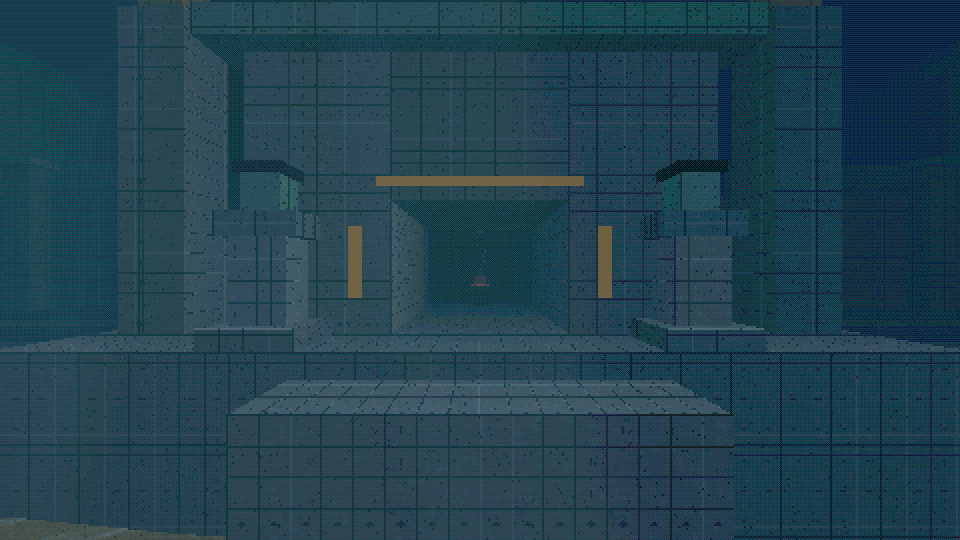
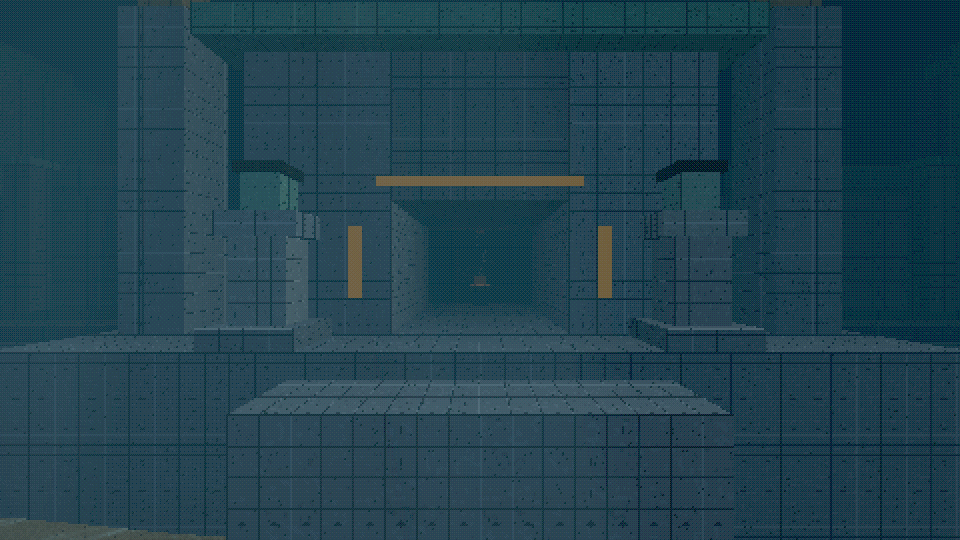
Tempel: Nischenfiguren im Umgang und am Labyrintheingang
- kleine Wächterfiguren in den vier Umgangsecken und beidseits des
  Labyrintheingangs (bauNischen/kleineStatue)
- neuer Prüfstandpunkt tempel_ecke; baseline und nachher (19 Posen)
  deckungsgleich neu aufgenommen
- Art-Bible: Inventar und Standpunkte aktualisiert

diff --git a/src/world/Tiefentempel.ts b/src/world/Tiefentempel.ts
@@ -272,6 +272,7 @@ export class Tiefentempel {
     this.bauDach(bau);
     this.bauSaeulen(bau);
     this.bauReliefs(bau);
+    this.bauNischen(bau);
     this.bauTorhaus(bau);
     this.bauWaechter(bau);
     const feuerschalen = this.bauFeuerschalen(bau);
@@ -423,6 +424,27 @@ export class Tiefentempel {
       b.glow(o.x, 1.25, o.z, 0.8, 0.5, 0.8, 0xffb45a);
     }
     return orte;
+  }
+
+  // Kleine Wächterfiguren in den Ecken des Umgangs und zu beiden Seiten
+  // des Labyrintheingangs. Sie gliedern die langen Wände und markieren
+  // den Übergang ins Labyrinth.
+  private bauNischen(b: Bau): void {
+    const c = INNEN - 1.6;
+    for (const sx of [-1, 1]) {
+      for (const sz of [-1, 1]) this.kleineStatue(b, sx * c, sz * c);
+    }
+    const ex = zellMitte(PLAN.eingang);
+    const ez = LAB_HALB + WAND / 2;
+    for (const s of [-1, 1]) this.kleineStatue(b, ex + s * 2.6, ez + 1.5);
+  }
+
+  private kleineStatue(b: Bau, x: number, z: number): void {
+    b.box(x, 0, z, 1.6, 0.4, 1.6, SOCKEL);
+    b.box(x, 0.4, z, 1.0, 2.0, 0.9, BASALT);
+    b.box(x, 2.4, z, 1.5, 0.5, 1.0, BASALT);
+    b.box(x, 2.9, z, 0.8, 0.8, 0.8, GRUENSPAN);
+    b.boxFarbe(x, 3.7, z, 1.0, 0.2, 1.0, 0x9a7440, 1.6);
   }
 
   // Außenwände mit Tor, Decke, Strebepfeiler, Glimmsteine im Umgang

diff --git a/src/dev/photo.ts b/src/dev/photo.ts
@@ -1,7 +1,7 @@
 import * as THREE from 'three';
 import { CONFIG } from '../config';
 import type { PlayState } from '../states/PlayState';
-import { RING } from '../world/TempelPlan';
+import { INNEN, RING } from '../world/TempelPlan';
 import { loadModel } from '../rendering/Models';
 import { pixelTexture } from '../rendering/Textures';
 
@@ -123,6 +123,7 @@ function bauePosen(play: PlayState): PoseDef[] {
     { name: 'seemonster', eye: [330, -1.0, 0], ziel: [360, -2, 0], frozen: false, warte: 1500 },
     { name: 'tempel', ...teleport(tempel.vorDemTor, -6) },
     { name: 'umgang', ...umgang },
+    { name: 'tempel_ecke', eye: punkt(RING, 1.55, 26), ziel: punkt(INNEN - 1.6, 1.3, INNEN - 1.6) },
     { name: 'labyrinth', ...teleport(tempel.amLabyrinthEingang, 3) },
     { name: 'schatz', ...teleport(tempel.inDerSchatzkammer) },
     { name: 'katalog_modelle', eye: KATALOG_AUGE, ziel: [0, 25, 0], katalog: 'modelle' },

diff --git a/docs/art-bible.md b/docs/art-bible.md
@@ -147,16 +147,15 @@ npm run textures     # Texturen neu erzeugen
 | Vignette | `rendering/PixelRenderer.ts` | ✓ neu |
 | Kreaturen- und Item-Modelle | `public/assets/models/*.glb` | Leos Blockbench-Modelle – unverändert, originale Materialien |
 | Licht/Atmosphäre | `world/World.ts`, `rendering/Palette.ts` | ✓ zentrale Palette + Sonnenrichtung |
-| Tempel + Pagoden | `world/Tiefentempel.ts`, `Pagoden.ts` | ✓ `temple.png`, Säulen, Reliefs, Wächterstatuen, Feuerschalen mit Licht |
+| Tempel + Pagoden | `world/Tiefentempel.ts`, `Pagoden.ts` | ✓ `temple.png`, Säulen, Reliefs, Wächterstatuen am Tor, Nischenfiguren, Feuerschalen mit Licht |
 | HUD/UI | `styles/ui.css` | ✓ in Farbvariablen zentralisiert (Palette) |
 
-Standpunkte der Prüfbilder (18): `klippen`, `klippen_fuss`, `boot_aussen`,
+Standpunkte der Prüfbilder (19): `klippen`, `klippen_fuss`, `boot_aussen`,
 `boot_innen`, `boot_motorraum`, `boot_bruecke`, `oberflaeche`,
 `unterwasser_flach`, `seeboden`, `tiefsee`, `riese`, `seemonster`,
-`tempel`, `umgang`, `labyrinth`, `schatz`, `katalog_modelle`,
-`katalog_texturen`.
+`tempel`, `umgang`, `tempel_ecke`, `labyrinth`, `schatz`,
+`katalog_modelle`, `katalog_texturen`.
 
-Noch offen: weitere Tempel-Props (Statuen im Umgang), Kaustik-Stärke je
-Tiefe.
+Noch offen: Kaustik-Stärke je Tiefe, mehr Variation der Nischenfiguren.
 
 
